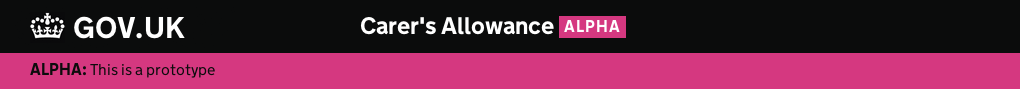
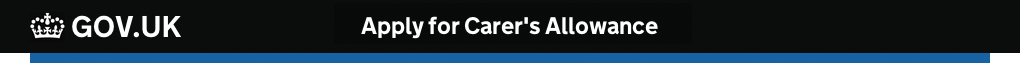
Rewrite guidance and update examples

diff --git a/service-manual/user-centred-design/resources/header-footer.md b/service-manual/user-centred-design/resources/header-footer.md
@@ -21,82 +21,100 @@ breadcrumbs:
     url: /service-manual/user-centred-design
 ---
 
-Users need to know if your service is in [alpha](/service-manual/phases/alpha) or [beta](/service-manual/phases/beta). Many will not recognise these terms or know what they mean so it's up to you to make them aware that a service is not officially live and they should use it at their own risk. That means labelling the service clearly and explaining what it means for them.
+{:.intro}
+All pages on GOV.UK services should use the appropriate header, footer, branding and typeface. The version you use depends on what kind of service you’re making, and whether it’s live or not.
 
-## Headers
+---
 
-Your service must be clearly labelled as alpha or beta using one of the three design patterns described below.
+## 1. Get the templates
 
-### Design patterns
+The GOV.UK template code and assets are available for the Play or Rails frameworks, and for the Mustache, Liquid or Jinja templating languages. You can also generate the static files.
 
-So far, we have identified three patterns that fit the situations we have encountered, we may update this list as the exemplar programme matures and we have strong evidence on how they perform.
+[Get the latest version of the templates on GitHub](https://github.com/alphagov/govuk_template)
 
-Each design pattern also has a banner below the title, which should briefly explain the stage of the project -- 'alpha' or 'beta' -- and that it is a trial service.
+---
 
-The text for the banners should be as follows:
+## 2. Choose the right approach
 
-> **ALPHA**: This is a prototype
+The approach you take in using the templates will depend on which phase of delivery you're in.
 
-> **BETA**: This is a trial service
+### Alpha services
 
-Services that aren't a transaction funnel may optionally choose to link to a feedback survey and description of alpha or beta:
+During the [alpha](/service-manual/phases/alpha) phase of delivery the important thing is to make something and make it quickly, before testing it with real users. You can use the GOV.UK templates, but you don’t have to. 
 
-> **ALPHA**: This is a prototype -- your [feedback]() will help us to improve it. [Find out more](/service-manual/phases/alpha)
+Follow the design principles and focus on the user journeys, but don’t worry about making everything pixel perfect.
 
-> **BETA**: This is a trial service -- your [feedback]() will help us to improve it. [Find out more](/service-manual/phases/beta)
+### Beta services
 
-Services should only add these links when it is acceptable for a user to be taken away from their existing flow.
+Once your service is in [beta](/service-manual/phases/beta) it should be using the GOV.UK templates.
 
-In all cases the GOV.UK logotype must link to `www.gov.uk`.
+If your alpha or beta service is publically available you should add an appropriate message below the header, so users understand that the functionality and content might not be complete, like this:
 
-### Pattern 1: No title
+<div class="example">
+  <img src="/service-manual/assets/images/header-footer/alpha-example.png" alt="An example of an alpha service header">
+</div>
 
-This is simply the GOV.UK header as is, without a title. This is relevant if your service is small and straightforward, taking place over only a few screens.
+The GOV.UK Frontend Toolkit contains [mixins for styling these messages](https://github.com/alphagov/govuk_frontend_toolkit#alphabeta). 
 
-You should also use this on the first page of your service if you are using the title of the service as the main heading the body.
 
-![Pattern 1: No title](/service-manual/assets/images/header-footer/header-pattern-1.png)
+### Live services
 
-### Pattern 2: Title
+Live services on GOV.UK must use the GOV.UK templates, including the header, footer, logotype and the New Transport typeface. A service is considered ‘on GOV.UK’ if it’s available at www.gov.uk/myservice, myservice.service.gov.uk or myblog.blog.gov.uk.
 
-This is the pattern that will be used in most cases. Your service will not need any internal navigation, but will need a title to identify itself.
+If your service isn’t on GOV.UK you can still follow the guidance, but your site shouldn’t identify as being part of GOV.UK and should not use the crown or the GOV.UK logotype in the header. This blog post talks about a good example of [a site that follows our design patterns](https://gds.blog.gov.uk/2013/03/18/intranets-dcms/) without using the logo.
 
-The service title should link to the service start page unless there is a reason why this would not work.
 
-![Pattern 2: Title](/service-manual/assets/images/header-footer/header-pattern-2.png)
+---
 
-### Pattern 3: Title and navigation
+## 3. Use the right header and footer
 
-If you service needs to show navigation, then this should sit below the service title. The service title should link to the service start page.
+Content pages on GOV.UK use the standard header.
+The GOV.UK logotype must always link back to [GOV.UK](https://www.gov.uk/).
 
-![Pattern 3: Title and navigation](/service-manual/assets/images/header-footer/header-pattern-3.png)
+### Standard header
 
-In this case "Your tax account" is not a transactional funnel, so it can also include links to feedback and information.
+<div class="example">
+  <img src="/service-manual/assets/images/header-footer/header-pattern-0.png" alt="Standard header">
+</div>
 
-### Search
+Transaction pages use a variant of the standard header. The search box is removed to avoid people leaving a transaction before they've completed it.
 
-If your service requires a search function this should sit in the header. The search form should be clearly labelled, indicating that it is only searching your service and not the entire GOV.UK domain.
+There are different versions of the transaction header.
+Choose the one that most closely meets the needs of your users.
 
-You should try to not complicate the interface by having multiple search boxes on a single page, though you may need to use in-page filters. These should be clearly and accessibly labelled and given appropriate ARIA attributes. They should also be visually differentiated from the main search box.
 
-### Soliciting user feedback
+### Transaction header 1
 
-Users can provide data that is invaluable for developing and improving your service. You should ask for feedback by providing a link to your service's feedback mechanism from the 'alpha'/'beta' banner. The link could:
+<div class="example">
+  <img src="/service-manual/assets/images/header-footer/header-pattern-1.png" alt="Header option 1">
+</div>
 
-* open a blank email in the user's email client, using the [`mailto` URL scheme](https://www.ietf.org/rfc/rfc2368.txt)
-* toggle the appearance of an embedded web form
-* take the user to a dedicated feedback web form on another page within your service
+Use this if your service is short, taking place over only a few screens.
+You should also use this on the first page of your service if you are using the service title as the page heading.
 
-### Using the GOV.UK logotype
 
-You can only use the GOV.UK logotype if your service is [currently available on GOV.UK](/service-manual/user-centred-design/service-look-and-feel). If the service is on a temporary domain then you must use an alternative header that does not show the GOV.UK logotype or crown. The logotype must link back to GOV.UK.
 
-## Footers
+### Transaction header 2
 
-The footer of your service should follow the design patterns used by the GOV.UK footer. It should include links to secondary information for your service that would allow users to contact you directly or provide feedback about your service (like email addresses, phone numbers or contact forms).
+<div class="example">
+  <img src="/service-manual/assets/images/header-footer/header-pattern-2.png" alt="Header option 2">
+</div>
 
-The footer should also display the appropriate copyright and licence notices.
+Use this if you need to remind your users of which service they are using.
+The service title should link to the service start page (unless doing this harms the user experience).
 
-## Templates and styles
 
-If you need access to the templates and styles, please make a request using [the GOV.UK support form](/support/internal).
+
+### Transaction header 3
+
+<div class="example">
+  <img src="/service-manual/assets/images/header-footer/header-pattern-3.png" alt="Header option 3">
+</div>
+
+Use this if your service needs links for account management and so-on. 
+
+
+### Footers
+
+If you're creating content pages for GOV.UK, use the standard GOV.UK footer, as used on the home page.
+For transactional services, use the standard footer but remove all links other than the crown copyright and OGL licence notices.
